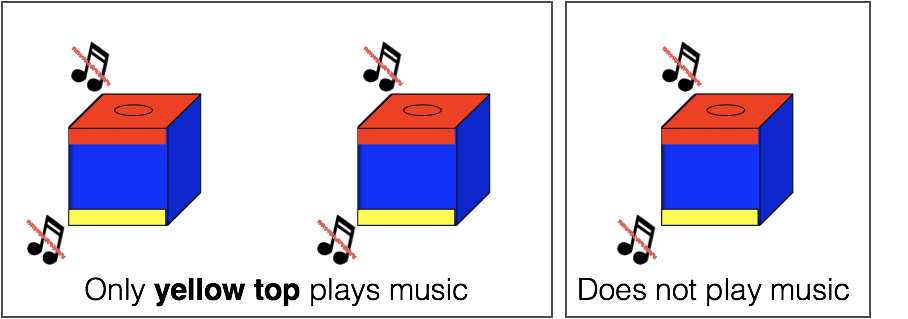
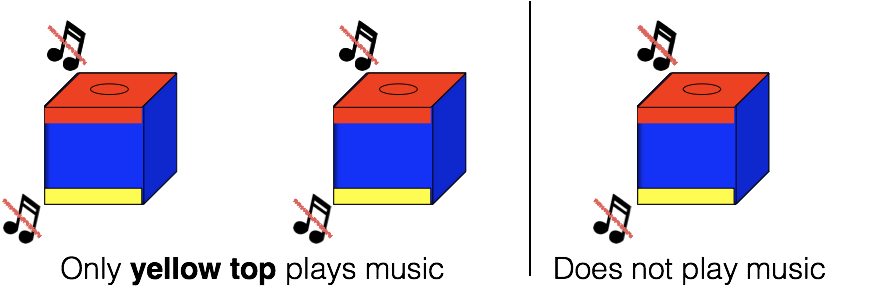
add schematics and images

diff --git a/thesis.md b/thesis.md
@@ -2,7 +2,8 @@
 title: "Untitled"
 author: "Sara Altman"
 date: "2/13/2018"
-output: github_document
+output: 
+  github_document
 ---
 
 
@@ -27,7 +28,9 @@ We presented children with a situation in which there were multiple ways to help
 We recruited fifty-two 24- to 48-month-olds (M(SD) = 2.78(0.48)yrs, 44% female) from a museum in Palo Alto, CA. An additional 18 children were excluded from analysis due to parental interference (n = 9), experimenter error (n = 3), shyness (n = 3), or lack of video recording (n = 3). We randomly assigned children to one of two conditions: the Broken Toy condition (n = 26; M(SD) = 2.78(0.54)yrs) or the Broken Button condition (n = 26; M(SD) = 2.78(0.43)yrs).
 
 ### Stimuli
-We constructed three identical-looking toys. One side of each toy was covered in yellow felt and had a yellow button in the center. The opposite side was covered in red felt and had a red button in the center. The yellow button on two toys played music, while the yellow button on the third toy was inert. All red buttons were inert. The toys were placed on a white plastic tray and covered with grey felt. See Figure 1 for a schematic of the toys and procedure.
+We constructed three identical-looking toys. One side of each toy was covered in yellow felt and had a yellow button in the center. The opposite side was covered in red felt and had a red button in the center. The yellow button on two toys played music, while the yellow button on the third toy was inert. All red buttons were inert. The toys were placed on a white plastic tray and covered with grey felt. See Figure 1 for a schematic of the toys.
+
+![Figure 1](images/three-toy-schematic.png)
 
 ### Procedure
 The experiment began with a *warm-up phase* in which a confederate and experimenter engaged the child in reciprocal games (e.g., rolling a ball back and forth through a tube) in order to help the child feel comfortable with the researchers, and promote general helping behavior (see Cortes Barragan & Dweck, 2014). After approximately 5 minutes of warm-up, the confederate excused herself from the room, explaining that she had work to do.
@@ -78,30 +81,155 @@ In Experiment 1, the toys were color-coded such that all red buttons were inert,
 
 
 
+We recruited 64 24- to 48-month-old participants (M(SD) = 3.03, 52% female) from a local preschool. An additional 11 children were excluded from analysis due to experimenter error (n = 2), the child responding too early (n = 4), the child having prior exposure to the experiment (n = 4), or lack of video recording (n = 1).
+
+We randomly assigned children to one of two conditions: the Broken Toy condition (n = 32; M(SD) = 3.05(0.47)yrs) or the Broken Button condition (n = 32; M(SD) = 3(0.41)yrs).
+
+### Stimuli
+
+We constructed four toys, similar to those used in Experiment 1. Two opposite sides of each toy were covered in red felt and had a red button in the center. The others sides of the toys were covered in blue felt. For two of the four toys, the button on one side played music when pressed, while the other was inert. Both buttons on one of the other two toys played music, while neither button on the final toy did anything. The fully functional and the inert toys were used in the Broken Toy condition. The two identical, half-functional toys were used in the Broken Button condition. In each condition, the two toys were placed in a woven basket. See Figure 1 for a schematic of the toys.
+
+### Procedure
+
+As in Experiment 1, the experiment consisted of a warm-up phase, play phase, and helping phase. The *warm-up phase* in this experiment was the same as in Experiment 1, but was two minutes shorter, as the children were already familiar with the experimenter and room in which the experiment was held.
+
+In the *play phase*, children gained experience with two of the four toys. As in Experiment 1, the experimenter behaved as if she were exploring the toys with the child. She took one toy out of the basket at a time and showed it to the child. 
+
+In contrast to Experiment 1, however, children saw different sets of toys in each condition. The child engaged with the fully inert toy and the fully functional toy in the Broken Toy condition. In the Wrong Action condition, the child engaged with the two identical toys on which one button played music and one button was inert. The experimenter helped the child explore the toys in an identical manner as in Experiment 1. 
+
+In the *helping phase*, the experimenter returned the toys to the basket before placing one toy X1 to the right of the child and Y feet in front of her, and the other X2 feet to the left of the child and Y feet in front of her. In the Broken Button condition, both toys were oriented so that the inert button was on top. As in Experiment 1, the experimenter called the confederate back into the room and explained that she and the child were playing with toys that played music. The confederate responded, "I love music!" and stood X3 feet behind the toys such that she was equidistant from each toy. She then glanced at each toy, then looked at one adn said, "Hmm, I think I'll play with this one." She knelt behind her chosen toy and pressed the top button, which did not play music. As in Experiment 1, she remarked, "Hmm, no music!" and then pressed it again and said, "Still no music!" She then returned, still kneeling, to the spot X feet behind the toys equidistant from each and said, "I really want music! Can you show me?" while gesturing to each toy simultaneously.
+
+If the child did not respond, the confederate and experimenter provided additional prompts as in Experiment 1, ending in moving the toys closer to the child.
+
+If the child provided help that did not involve a physical demonstration (i.e., pointed or gave verbal instructions) before the confederate moved back to the center and gave her prompt, the confederate indicated that she had noticed the help by saying, "Ooh," moved back to the center, and said, "Can you show me?" If the child did not respond, the experimenter and confederate continued prompting as explained above.
+
+### Coding
+
+As in Experiment 1, the key dependent measure was the target of the child's first response after the confederate's failure. This target was either the toy that the confederate had acted upon ("confederate's toy"), or the other toy that she had not touched ("other toy"). All children included in this experiment fell into one of these two categories. 
+
+We also looked at the effect of each child's first response. We coded a response as "successful" if the behavior helped the confederate play music, and "unsuccessful" otherwise. In the Broken Toy condition, we coded a response as "successful" if the child pressed a button on the other toy or indicated (by pointing or verbally instructing) that the confederate should do so. We coded a response as "unsuccesful" if the target of the child's first behavior was the confederate's toy. In the Broken button condition, we coded a response as "successful" if the child flipped and pressed the bottom button on either of the two toys, or indicated (by pointing or verbally instructing) that the confederate should flip and press a bottom button. Unsuccessful behaviors involved acting on a top button or indicating that the confederate should act on a top button.
+
+[include coding contents of helping behavior?]
+
+# Results
+
+
+To verify that children did not express a side bias or preference for any confederate or experimenter, we ran a logistic regression with "correctness" of response as the outcome and toy side, experimenter identity, and confederate identity as predictors. None were signficant predictors of correctness. 
+
+Children in each condition saw identical-looking toys. The only difference across the two conditions was the functionality of the toys. In the Broken Toy condition, one toy has two functional buttons and the other has two inert buttons. When the confederate presses the top button on her own toy, the child can then know that she has the broken toy. The only way to effectively help the confederate with her goal of playing music is to act on the other toy. In the Broken Button condition, the toys are identical. Each toy has one functional button and one inert button. Once the confederate presses the top button on her toy, it's possible to infer that the bottom button will be functional. It is therefore reasonable to help by targeting the "confederate's toy". However, the "other toy" also has a functional button, and so targeting this toy can also address the confederate's goal of playing music. Since it is reasonable for children to target either toy in this condition, we predicted that children would be more likely to target the "other toy" in the Broken Toy condition than in the Broken Broken Button condition. As predicted, children were significantly more likely to direct their help toward the "other toy" in the Broken Toy condition than in the Broken Button condition (% % vs. %; two-tailed Fisher’s Exact Test, p = 6 &times; 10<sup>-4</sup>).
+
+![plot of chunk unnamed-chunk-6](figure/unnamed-chunk-6-1.png)
+
+
+We also looked at responses within each condition. In the Broken Toy condition, since the only way to help the confederate in her goal to play music is to target the "other toy", we predicted that children would be more likely to target the "other toy" than the "confederate's toy." We found that children were more likely to approach the “other toy” than the “confederate’s toy” (/`summary_two_toy$num_bt`; two-tailed binomial test, p = 10<sup>-4</sup>).
+
+We did not have a directed prediction for the Broken Button condition, as it is reasonable to target either toy. Children in the Broken Button condition showed no preference for either toy (13/`summary_two_toy$num_bb`; two-tailed binomial test, p = 0.3771).
+
+Again, as a secondary measure, we looked at the success of children's helping behaviors. Successful behaviors included only those that aided the confederate in her goal of playing music. In the Broken Toy condition, children could successfully help only if they targeted the other toy. In the Broken Button condition, children could successfully help if they targeted either the bottom button on the confederate's toy, or the bottom button on the other toy [seems kind of confusing why this is maybe clarify]. We again found no difference in the success of helping behavior across the two conditions (84% in Broken Toy vs. 72 in Broken Button; two-tailed Fisher’s Exact Test, p = 0.3649). We then collapsed across conditions and found that children were more likely to successfully help than to unsuccessfully help (50/`summary_two_toy$num_participants`; two-tailed binomial test, p = ).
+
+![plot of chunk unnamed-chunk-7](figure/unnamed-chunk-7-1.png)
+
+As another secondary analysis, we investigated how often children in each condition exhibited the "correct" response. In the Broken Toy condition, "correct" responses are those that target the other toy. In the Broken Button condition, "correct" responses are those that target the confederate's toy. 
+
+
+
+We found no significant difference across conditions (84% in Broken Toy vs. 59% in Broken Button; two-tailed Fisher’s Exact Test, p = 0.05). We then collapsed across conditions to test if children were more likely to respond "correctly" or "incorrectly" versus the alternative. Children were more likely to respond "correctly" than "incorrectly" (46/`summary_two_toy$num_participants`; two-tailed binomial test, p = 6.174 &times; 10<sup>-4</sup>)
+
+
+## [transition to modified experiment--put somewhere]
+It is not clear exactly what the confederate's goal are from her actions. Again, the confederate chooses a toy and expresses that she is interested in playing music. She then asks the child to show her. She may have a "specific" goal of playing music with her chosen toy, or a "general" goal of playing music with either toy. If she holds the specific goal, you can help her by showing her how to produce music on her chosen toy. However, since the toys are identical, you can also demonstrate to her how to operate her own toy on the "other toy." If she has the "general" goal of playing music regardless of toy, then showing her on either toy helps her achieve her goal. 
+
+Children show no preference for either toy in the Broken Button condition, in contrast to Experiment 1, in which children in the Broken Button condition preferentially targeted the confederate's toy. There are several reasons why targeting the confederate's toy seems more appropriate in this condition. First, children have more information about the confederate's toy. The confederate presses a button on the top of the toy and it does nothing. If children remember how the toys work, they can infer that the bottom button on the confederate's toy must therefore be the functional button. They have no such information about other toy. In this experiment, the functional and non-functional sides are not marked and it is therefore not clear which button will produce music on the other toy. Therefore, if children want to maximize the chance of producing music, it makes sense to target the bottom button on the confederate's toy. Second, the confederate chooses one toy over another, both verbally by remarking, "Hmm, I think I'll play with this one," and by phyiscally kneeling down behind her chosen toy and pressing a button on that toy only. It seems reasonable to conclude that these actions indicate that she has a preference for one toy over another. However, children do not preferentially target the confederate's toy. Here are several possible explanations for this behavior.
 
 
 
 
+1. Children are forgetting which toy the confederate acted upon and therefore do not have a preference for either toy since they are visually identical. This could explain the difference in behavior between children in Experiment 1 and this experiment because in Experiment 1 the other toys are on a tray and therefore visually marked. However, this is unlikely for several reasons. First, if children are forgetting which toy the confederate acted upon after she moves to the center of both toys and asks her question, children should also show no preference for either toy in the Broken Button condition, as the toys in that condition are also visually identical. [have possible counterargument to this -- think about later] Second, there are 25 children who offer help while the confederate is still kneeling at her toy, before she moves back to the center and asks for help. These children also do not show a preference for either toy--12 target the confederate's toy and 13 target the other toy. 
+
+2. Children have an aversion to the confederate's toy since they just saw the confederate act upon that toy and fail. However, if children are aversed to operating a toy upon which someone else just failed, we should see that aversion in the Broken Button condition in Experiment 1 as well. 
+
+
+
+3. Children do not think the confederate's gaol is to play music with her chosen toy. Instead, they think her goal is just to play music. We will call this the *general goal*, in contrast to the *specific goal* of playing music with a particular toy. Although the confederate does verbally indicate a choice and operate a single toy, she then moves so that she is back between the two toys before saying, "I really want to play music. Can you show me?" She also gestures with both arms towards both toys while doing so. Therefore, while the confederate is explicitly asking for music and stating her goal, she demonstrates an indifference towards either toy. Children may interpret these actions as overriding her earlier demonstrated preference for one toy over another and therefore attribute the general goal to the confederate. If the confederate has no toy preference, it is helpful to target either toy. this does not address, however, the fact that children have more information about the confederate's toy than the other toy. Even if children attribute the general goal to the confederate, it is still a better bet to flip over the confederate's toy (100% chance of music) than it is to try either button on the other toy (each has a 50% chance of music). It is possible that children are not taking this into consideration, or that they assume the toys are oriented identically (i.e., the top button on the other toy is also the inert button). It is unlikely that children think the toys are oriented identically, however. First, they have no reason to assume they are oriented identically--they are oriented differently during the training phase and neither the confederate or experimenter indicates that they are oriented in any particular way during the helping phase. Furthermore, if children assume the toys are oriented identically, children who target the other toy in this condition should preferentially target the bottom button, as the do the children who target the confederate's toy. However, of the 13 in the Broken Button condition who target the other toy, 5 target the bottom button and 8 target the top button. This is contrast to the 18 out of 19 who target the bottom button on the confederate's toy.
+
+4. Children do attribute the specific goal to the confederate (i.e., they think she wants to play music with her chosen toy). However, because the toys are identical, they believe that demonstrating on either toy can help fulfull the confederate's goal. Under this theory, if a child targets the other toy, s/he thinks that the confederate wants to play music with her chosen toy, but believe they can show her the correct way to do so on the other toy, since the toys are visually and functionally identical. However, it then seems reasonable to expect that children who target the other toy will preferentially target the bottom button, as it is not informative to the confederate for the child to push the top button on the other toy if her goal is to play music on her own toy. The confederate  does not appear to know that the bottom button exists, or that her own toy has a functional button. '
+
+It is possible that a combination of these explanations are occurring--i.e., some children are attributing the general goal to the confederate, some are attributing the specific goal, some forget which toy she acted upon, some are aversed to acting on the confederate's toy. It is also possible that multiple of these are in effect in one child. For example, a child could attribute the specific goal to the confederate and also have an aversion to the confederate's toy. 
+
+It is not possible to determine whether children are attributing the specific or general goal to the confederate in this experiment. 
+
+
+# Experiment 3
+In this experiment, we change the structure of one toy in each pair such that the toys are visually distinct. It is now no longer helpful to demonstrate how to the confederate how her own toy works on the other toy. Furthermore, we believe having visually distinct toys makes it more likely that children will attribute a toy preference to the confederate. Therefore, we predict  that children in the Broken Button condition will now preferentially target the confederate's toy. We predict that children in the Broken Toy condition will continue to preferentially target the other toy.
+
+## Methods
+
+### Participants
+
+
+
+We recruited 72 24- to 48-month-old participants (M(SD) = 2.96(0.52), %% female). 37 of these participants (M(SD) = 2.88()) were recruited from a museum in Palo Alto, CA. 35 of these participants (M(SD) = 3.04()) were recruited from a local preschool. An additional 19 children were excluded from analysis due to experimenter error (n = 1), parental or sibling interference (n = 4), the child responding too early (n = 7), the child having prior exposure to the experiment (n = 1), or lack of video recording (n = 1).
+
+We randomly assigned children to one of two conditions: the Broken Toy condition (n = 36; M(SD) = 2.98(0.48)yrs) or the Broken Button condition (n = 36; M(SD) = 2.94(0.55)yrs).
+
+### Stimuli
+
+We constructed three pairs of toys. One toy in each pair looked identical to the toys constructed in Experiment 2 (*top-bottom toys*). The other three toys had a button on the top and on an adjacent side (*top-side toys*), instead of on the top and bottom, but were otherwise identical to the toys in Experiment 2. The toys in one pair each had one functional button and one inert button. For the other two pairs of toys, one toy had two functional buttons and the other had two inert buttons. In one of these pairs, the functional toy was a top-bottom toy; in the other pair, the functional toy was a top-side toy.
+
+### Procedure
+
+Again, the experiment consisted of a warm-up phase, play phase, and helping phase. The warm-up phase was identical to the warm-up phase in Experiment 2.
+
+The play phase was also identical to the play phase in Experiment 2, except that each child saw one top-side toy and one top-bottom toy. Children were again assigned to either the Broken Button or Broken Toy condition. Each child in the Broken Button condition played two toys that each had one functional button and one inert button. Half of children in the Broken Toy condition played with a functional top-side toy and an inert top-bottom toy, and half played with a functional top-bottom toy and an inert top-side toy.
+
+The top-side toys were placed such that an inert button was on top and the side button faced the child. The helping phase then proceeded identically to the helping phase in Experiment 2. 
+
+### Coding
+
+Again, we coded the target of each child's first behavior after the confederate's failure (i.e., her first button press). This target was either the confederate's toy or the other toy, and all children who responded fell into one of these two categories. 
+
+As in the previous two experiments, we also coded responses as successful or unsuccessful. The criteria were the same as in Experiment 2 for both conditions. 
+
+# Results
+
+To verify that children did not express a bias for a particular toy type, side, confederate, or experimenter, we ran a logistic regression with all of the listed variables as predictors and an indicator variable representing whether or not children repsonded as predicted (i.e., targtted the confederate's toy in Broken Button or other toy in Broken Toy) as the response. None of the predictors were significant [maybe see a table?]
 
 
 
 
+![plot of chunk unnamed-chunk-13](figure/unnamed-chunk-13-1.png)
+
+Again, we predicted that responses would vary across conditions depending on the source of the confederate's failure, and that children in the Broken Toy condition would be more likely to target the "other toy" than children in the Broken Button condition. As predicted, children were significantly more likely to direct their help toward the "other toy" in the Broken Toy condition than in the Broken Button condition (94% % vs. %; two-tailed Fisher’s Exact Test, p = 1.6 &times; 10<sup>-8</sup>). This replicates the findings in Experiment 1 and 2.
+
+As in the previous two experiments, we also predicted and found that children within the Broken Toy condition would be more likely to target the "other toy" than the "confederate's toy" (34/`summary_modified$num_bt`; two-tailed binomial test, p = 0).
+
+In contrast to Experiment 2, we predicted that children within the Broken Button condition would preferentially target the "confederate's toy" over the "other toy." the two toys in this experiment are visually different. Therefore, in the Broken Button condition, children can no longer effectively help the confederate by demonstrating the correct action on the "other toy." Additionally, because the toys are visually distinct, it now appears more likely that the confederate expresses a preference for one type of toy over the other when she selects a toy to operate. If children interpret her choice as a preference for her chosen type of toy, then they may also think it is more likely that she holds the "specific" goal of playing music with her chosen toy, and not the "general" goal of playing music with either toy. As predicted, children in this condition were more likely to target the "confederate's toy" than the "other toy" (11/`summary_modified$num_bb`; two-tailed binomial test, p = 0.0288).
 
 
 
+As a secondary analysis, we investigated whether the proportion of children who behaved as predicted differed across conditions. Again, behaving as predicted consists of targeting the other toy in the Broken Toy condition and the confederate's toy in the Broken Button condition. Children were significantly more likely to behave as predicted in the Broken Toy condition than in the Broken Button condition (94% % vs. 69%; two-tailed Fisher’s Exact Test, p = 0.012).
+
+Since we found a signficant difference across conditions, we then looked at children's tendencies to behave as predicted within each condition....
+
+![plot of chunk unnamed-chunk-15](figure/unnamed-chunk-15-1.png)
 
 
 
+![plot of chunk unnamed-chunk-17](figure/unnamed-chunk-17-1.png)
 
 
+![plot of chunk unnamed-chunk-18](figure/unnamed-chunk-18-1.png)
 
 
+# COMMENTS TO SELF
+## ARE CHILDREN REALLY HELPING?
 
+It is possible to argue that children are not really helping the confederate. Here, we address two possible counterarguments. First, it seems possible that children are behaving in the observed manner because they want to play music for themselves and are not really considering what the confederate wants. Most of the observed behavior discussed so far is consistent with this idea. If children want to play music for themselves, they would operate the other toy in the Broken Toy conditon. In the Broken Button condition, it makes the most sense to flip over the confederate's toy because children know the bottom or side button plays music (if they remember how the toys work). This does not, however, explain why children in the Broken Button condition in Experiment 2 showed no preference for either toy. One could argue that, because the toys were visually and functionally identical, children tended to forget which toy was which, or that they assumed the toys were oriented in the same direction. However, as argued earlier, we do not find either of these arguments very convincing, and instead argue that the observed differences in behavior between Experiment 2 and Experiment 3 are evidence that children are considering the confederate's goals when helping. Very little changes between Experiment 2 and Experiment 3 besides the appearance of the toys, but children in the Broken Button condition in Experiement 2 show no preference for either toy, while children in the same condition in Experiment 3 preferentially target the confederate's toy. The main difference between these two conditions is the appearance of the toys, but the appearance itself is unlikely to be the reason children prefer the confederate's toy, since we might then expect to see a similar pattern in the Broken Button condition. However, having visually distinct toys seems to change what the confederate's goal is, or at least limits the ways in which you can help her achieve her goal. [something about choosing between identical toys = no preference; choosing between different ones = preference] Therefore, it appears as if children are attending to the subtle visual change and incorporating that information when reasoning about the confederate's goal. Children would not have a reason to do this if they just wanted to play music for themselves.
 
+Second, we can look at the content of children's helping behaviors. This is a stronger argument for teh idea that children are acting for the confederate. [insert social referencing stuff]
 
+Another possible counteragument to the idea that children are helping the confederate, however, is that children are just answering a prompt. The confederate asks the child, either to help her or to show her, after stating that she likes music. Although this is often how people ask for help, it could also be interpreted as a command to the child or as "**Can** (i.e., are you capable of) helping me play music?". Children may also be more used to adults giving them commands than asking them for help. 
 
-
-
-
+What's the difference between helping and answering a question? Sometimes helping involves answering a question. For example, if someone asks you to explain a concept from a class they are struggling in, we would tend to count that as helping. However, question answering is often not helping, such as when having a casual conversation or answering a question during a job interview. What's the difference between these two scenarios? 
 
 
